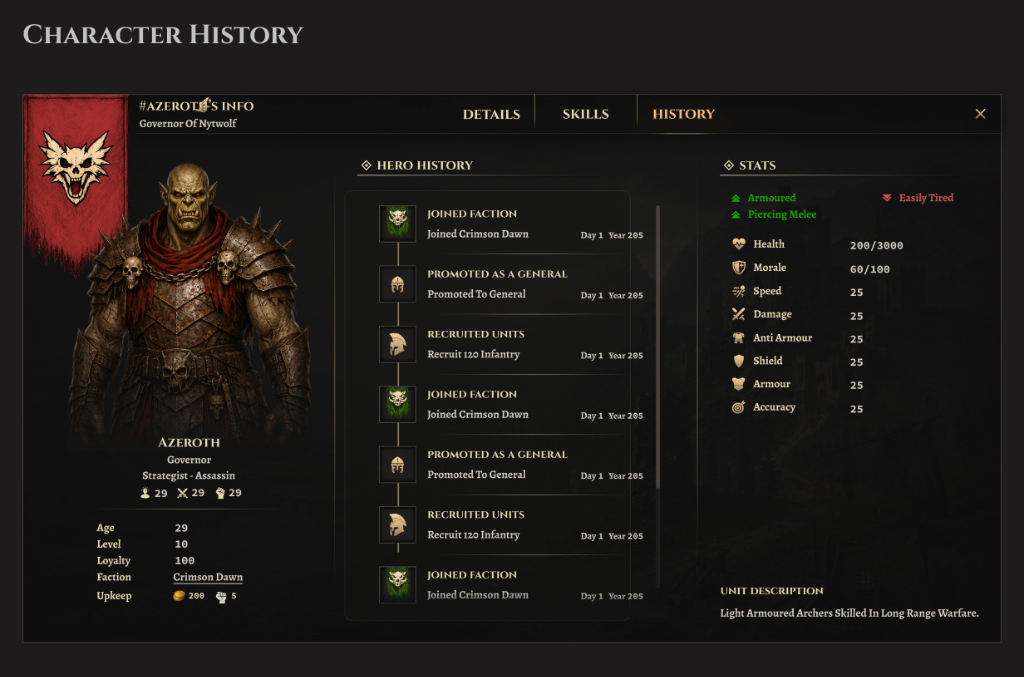
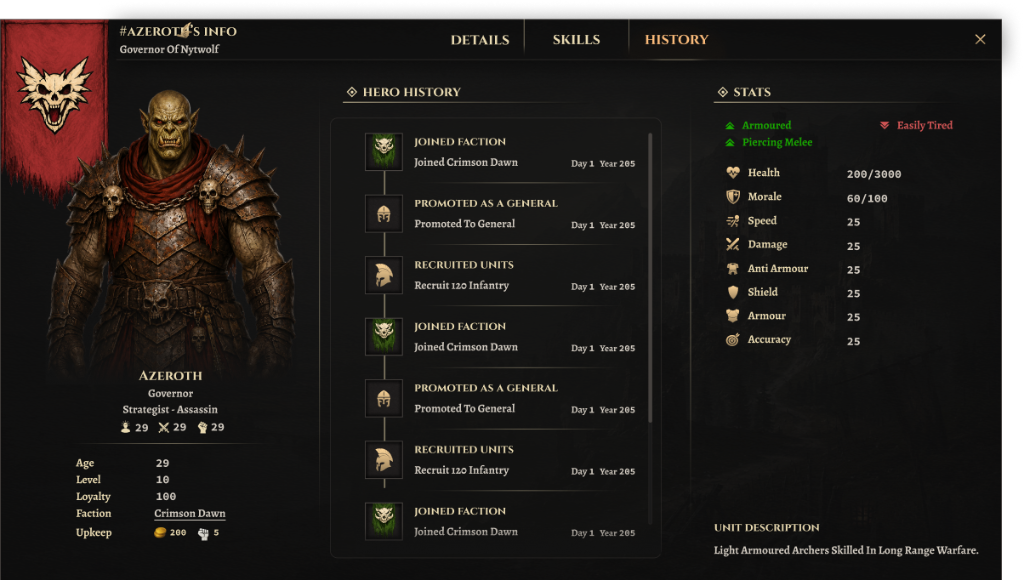
feat(severna): update UI showcase gallery with 5 screens including main menu and options

diff --git a/severna.html b/severna.html
@@ -569,8 +569,8 @@
     /* ── 4 Thumbnails Row Directly Below ─────────────────── */
     .cs-gallery-strip {
       display: grid;
-      grid-template-columns: repeat(4, 1fr);
-      gap: 14px;
+      grid-template-columns: repeat(5, 1fr);
+      gap: 12px;
       width: 100%;
     }
 
@@ -614,7 +614,7 @@
     .cs-thumb-media {
       position: relative;
       width: 100%;
-      aspect-ratio: 16 / 10;
+      aspect-ratio: 1024 / 580;
       background: #080808;
       overflow: hidden;
     }
@@ -721,13 +721,14 @@
       }
     }
 
-    @media (max-width: 840px) {
+    @media (max-width: 860px) {
       .cs-gallery-caption {
         flex-direction: column;
         align-items: flex-start;
         gap: 8px;
       }
       .cs-gallery-strip {
+        grid-template-columns: repeat(3, 1fr);
         gap: 8px;
       }
       .cs-thumb-info {
@@ -738,7 +739,7 @@
       }
     }
 
-    @media (max-width: 560px) {
+    @media (max-width: 540px) {
       .cs-gallery-strip {
         grid-template-columns: repeat(2, 1fr);
         gap: 10px;
@@ -1250,17 +1251,17 @@
 
               <!-- 4 Thumbnail Previews in a Single Row (Directly Below Main Image) -->
               <div class="cs-gallery-strip" role="tablist" aria-label="UI Showcase Thumbnails">
-                <button type="button" class="cs-thumb active" data-index="0" role="tab" aria-selected="true" aria-label="View Character Overview & Details">
+                <button type="button" class="cs-thumb active" data-index="0" role="tab" aria-selected="true" aria-label="View Character Details">
                   <div class="cs-thumb-media">
-                    <img src="severna-character-details.png" alt="Character Overview Thumbnail" />
+                    <img src="severna-character-details.png" alt="Character Details Thumbnail" />
                   </div>
                   <div class="cs-thumb-info">
                     <span class="cs-thumb-idx">01</span>
-                    <span class="cs-thumb-name">OVERVIEW</span>
+                    <span class="cs-thumb-name">DETAILS</span>
                   </div>
                 </button>
 
-                <button type="button" class="cs-thumb" data-index="1" role="tab" aria-selected="false" aria-label="View Character Skills & Abilities">
+                <button type="button" class="cs-thumb" data-index="1" role="tab" aria-selected="false" aria-label="View Character Skills">
                   <div class="cs-thumb-media">
                     <img src="severna-character-skills.png" alt="Character Skills Thumbnail" />
                   </div>
@@ -1270,7 +1271,7 @@
                   </div>
                 </button>
 
-                <button type="button" class="cs-thumb" data-index="2" role="tab" aria-selected="false" aria-label="View Character History & Narrative">
+                <button type="button" class="cs-thumb" data-index="2" role="tab" aria-selected="false" aria-label="View Character History">
                   <div class="cs-thumb-media">
                     <img src="severna-character-history.png" alt="Character History Thumbnail" />
                   </div>
@@ -1280,13 +1281,23 @@
                   </div>
                 </button>
 
-                <button type="button" class="cs-thumb" data-index="3" role="tab" aria-selected="false" aria-label="View Faction & Gameplay Widgets">
+                <button type="button" class="cs-thumb" data-index="3" role="tab" aria-selected="false" aria-label="View Main Title Menu">
                   <div class="cs-thumb-media">
-                    <img src="severna-faction-widgets.png" alt="Faction and Gameplay Widgets Thumbnail" />
+                    <img src="severna-main-menu.png" alt="Main Title Menu Thumbnail" />
                   </div>
                   <div class="cs-thumb-info">
                     <span class="cs-thumb-idx">04</span>
-                    <span class="cs-thumb-name">FACTION &amp; WIDGETS</span>
+                    <span class="cs-thumb-name">MAIN MENU</span>
+                  </div>
+                </button>
+
+                <button type="button" class="cs-thumb" data-index="4" role="tab" aria-selected="false" aria-label="View Settings and Options">
+                  <div class="cs-thumb-media">
+                    <img src="severna-game-options.png" alt="Settings and Options Thumbnail" />
+                  </div>
+                  <div class="cs-thumb-info">
+                    <span class="cs-thumb-idx">05</span>
+                    <span class="cs-thumb-name">OPTIONS</span>
                   </div>
                 </button>
               </div>
@@ -1579,11 +1590,18 @@
           desc: 'Lore-focused narrative interface recording faction lineage, historical deeds, personality traits, and chronicle entries.'
         },
         {
-          src: 'severna-faction-widgets.png',
-          alt: 'Severna: Blood & Betrayal — Faction, Building Details and Gameplay Widgets UI',
-          badge: '02 & 03 — FACTION & WIDGETS',
-          title: 'BUILDINGS & TROOP CARDS',
-          desc: 'Territory building management screens paired with real-time troop cards, action states, and tactical micro-widgets.'
+          src: 'severna-main-menu.png',
+          alt: 'Severna: Blood & Betrayal — Main Title Menu UI',
+          badge: '02 — TITLE & CAMPAIGN',
+          title: 'MAIN TITLE MENU',
+          desc: 'Atmospheric dark fantasy title menu featuring central campaign navigation, battle selection, options routing, and exit controls.'
+        },
+        {
+          src: 'severna-game-options.png',
+          alt: 'Severna: Blood & Betrayal — Settings & Options Menu UI',
+          badge: '03 — SETTINGS & OPTIONS',
+          title: 'GAME SETTINGS & OPTIONS',
+          desc: 'Tactical configuration interface managing general interface language, text scaling, main UI theme, graphics quality, and resolution.'
         }
       ];
 
